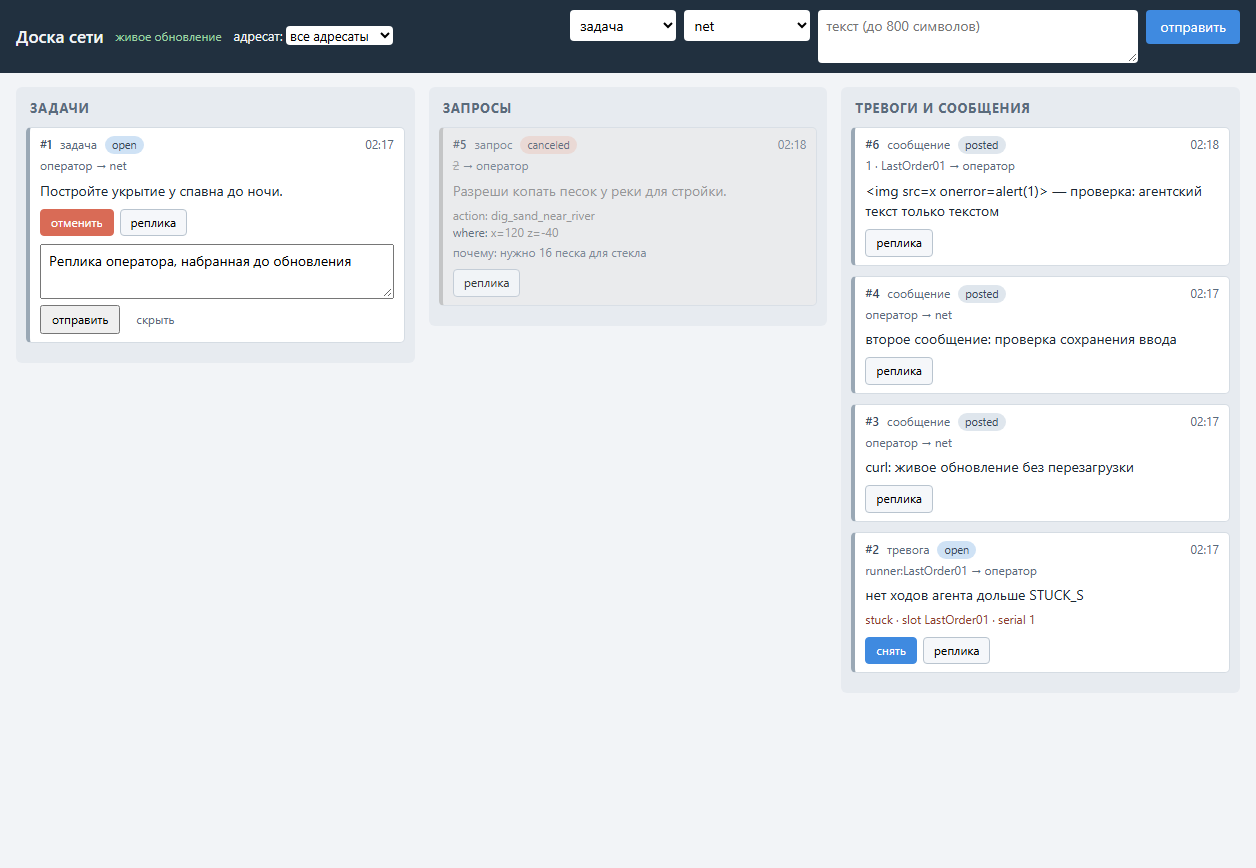
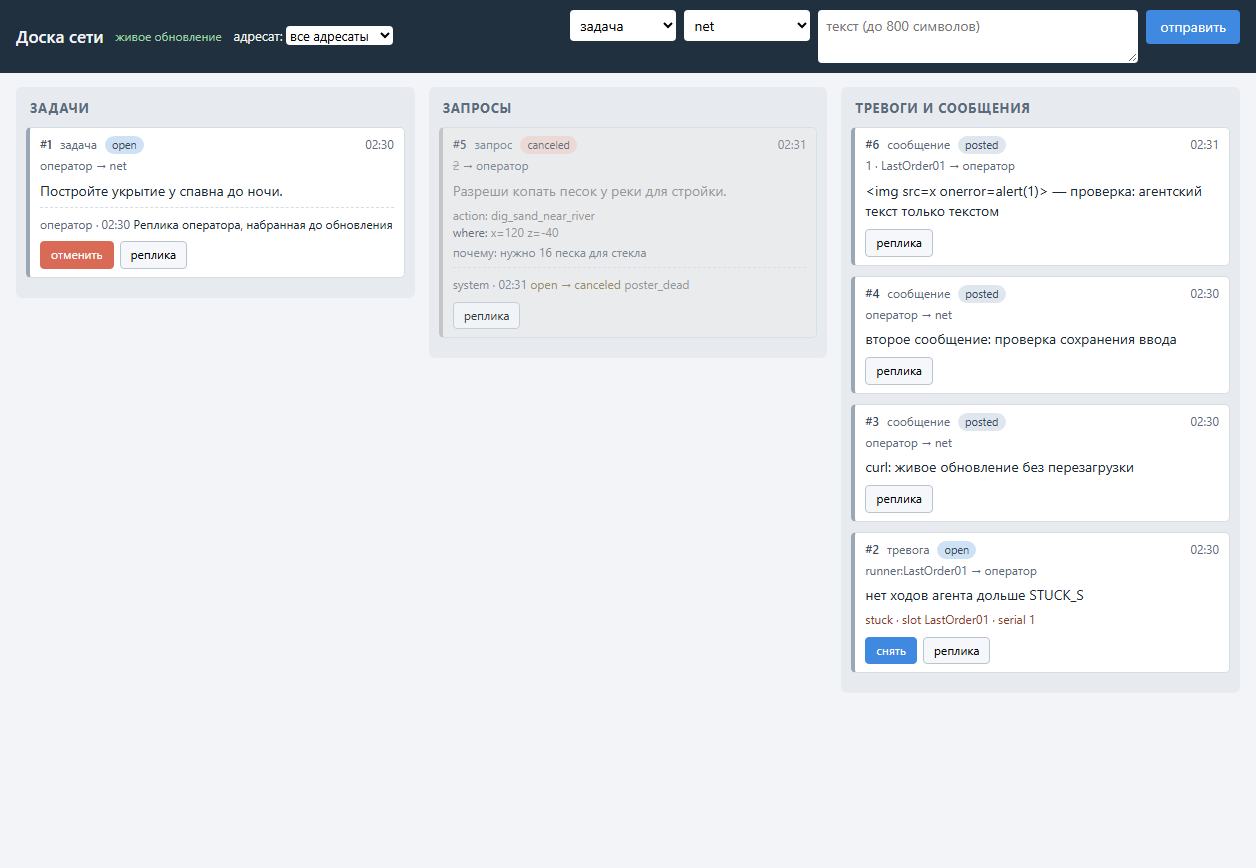
T-049: R2-1 — close forms on success, drop stale ones, show threads
- doAction reports success: both submit handlers remove the form after a
  sent action, a refusal keeps the typed text in place.
- Each action button carries data-opens; a carried form survives a re-render
  only while the fresh card still offers its move (a status change that
  removed the button drops the form with the old card).
- The list API carries no threads (TASKBOARD.md 9): the page loads the thread
  of every visible entry in one parallel burst, so replies — needs_input
  questions, deny reasons, the operator's own — are actually readable;
  _board_actor accepts the page's Basic pair like every operator route.

Agent: zcode

diff --git a/runtime/hive/static/board.js b/runtime/hive/static/board.js
@@ -79,8 +79,10 @@ async function doAction(path, body) {
   try {
     await api(path, "POST", body);
     await refresh(); // the SSE event will call it again; better twice than late
+    return true;
   } catch (error) {
     toast(String(error.message || error));
+    return false; // the caller keeps the form with its typed text
   }
 }
 
@@ -104,10 +106,28 @@ async function refresh() {
     ]);
     state.entries = entries;
     state.alive = alive;
+    await loadThreads(visibleEntries());
     render();
   } catch (error) {
     toast(String(error.message || error));
   }
+}
+
+// TASKBOARD.md section 9: the listing carries no threads — only the one-entry call
+// does. The page fetches the thread of every visible entry in parallel (loopback,
+// one debounced burst per update); a `with_thread` param on the list would spare
+// the round-trips, but runtime/hive/board.py is outside this task's scope.
+async function loadThreads(entries) {
+  const threads = await Promise.all(entries.map((entry) =>
+    api("/board/entries/" + entry.id, "GET")
+      .then((full) => full.thread || [])
+      .catch(() => [])
+  ));
+  entries.forEach((entry, i) => { entry.thread = threads[i]; });
+}
+
+function visibleEntries() {
+  return state.entries.filter((entry) => !state.filter || entry.to === state.filter);
 }
 
 let refreshTimer = null;
@@ -158,9 +178,9 @@ function render() {
   }
   buildFilter();
   buildAddressees();
+  const visible = visibleEntries();
   const columns = { task: [], request: [], info: [] };
-  for (const entry of state.entries) {
-    if (state.filter && entry.to !== state.filter) continue;
+  for (const entry of visible) {
     if (entry.kind === "task") columns.task.push(entry);
     else if (entry.kind === "request") columns.request.push(entry);
     else columns.info.push(entry);
@@ -220,9 +240,10 @@ function entryCard(entry, openForms) {
     card.append(threadBox(entry.thread));
   }
   // the carried form (an update re-rendered the cards around the operator's typing)
-  const carried = openForms ? openForms.get(entry.id) : null;
-  card.append(actionsRow(entry, carried));
-  if (carried) card.append(carried);
+  // rides along only while its action still exists on the card (review R2-1)
+  const actions = actionsRow(entry, openForms ? openForms.get(entry.id) : null);
+  card.append(actions.row);
+  if (actions.form) card.append(actions.form);
   return card;
 }
 
@@ -267,7 +288,16 @@ function threadBox(thread) {
 
 function actionsRow(entry, carriedForm) {
   const row = el("div", "actions");
-  let openForm = carriedForm || null; // a form carried over a re-render stays open
+
+  const button = (label, cls, opens) => {
+    const node = el("button", cls, label);
+    node.type = "button";
+    node.dataset.opens = opens; // a carried form survives while its action does (R2-1)
+    row.append(node);
+    return node;
+  };
+
+  let openForm = null;
 
   const toggle = (form) => {
     if (openForm) openForm.remove();
@@ -276,19 +306,16 @@ function actionsRow(entry, carriedForm) {
     row.after(form);
   };
 
-  const button = (label, cls, buildForm) => {
-    const node = el("button", cls, label);
-    node.type = "button";
+  const wire = (node, buildForm) =>
     node.addEventListener("click", () => toggle(buildForm()));
-    row.append(node);
-  };
 
   if (entry.kind === "task") {
     if (["open", "taken", "needs_input"].includes(entry.status)) {
-      button("отменить", "danger", () => transitionForm(entry, "canceled", "отменить задачу"));
+      wire(button("отменить", "danger", "canceled"),
+        () => transitionForm(entry, "canceled", "отменить задачу"));
     }
     if (entry.status === "needs_input") {
-      button("ответить", "primary",
+      wire(button("ответить", "primary", "taken"),
         () => transitionForm(entry, "taken", "ответить и вернуть во взятые", { needText: true }));
     }
   }
@@ -296,17 +323,20 @@ function actionsRow(entry, carriedForm) {
     const allowed = (entry.request && entry.request.allowed)
       || ["approve", "deny", "respond", "edit"];
     if (allowed.includes("approve")) {
-      button("одобрить", "primary", () => transitionForm(entry, "approved", "одобрить"));
+      wire(button("одобрить", "primary", "approved"),
+        () => transitionForm(entry, "approved", "одобрить"));
     }
     if (allowed.includes("edit")) {
-      button("правка и одобрить", "primary",
+      wire(button("правка и одобрить", "primary", "approved"),
         () => transitionForm(entry, "approved", "одобрить с правкой", { editArgs: true }));
     }
     if (allowed.includes("deny")) {
-      button("отклонить", "danger", () => transitionForm(entry, "denied", "отклонить", { needText: true }));
+      wire(button("отклонить", "danger", "denied"),
+        () => transitionForm(entry, "denied", "отклонить", { needText: true }));
     }
     if (allowed.includes("respond")) {
-      button("ответить", null, () => transitionForm(entry, "answered", "ответить", { needText: true }));
+      wire(button("ответить", null, "answered"),
+        () => transitionForm(entry, "answered", "ответить", { needText: true }));
     }
   }
   if (entry.kind === "alarm" && entry.status === "open") {
@@ -317,8 +347,13 @@ function actionsRow(entry, carriedForm) {
     });
     row.append(ack);
   }
-  button("реплика", null, () => replyForm(entry));
-  return row;
+  wire(button("реплика", null, "reply"), () => replyForm(entry));
+  // the carried form stays open on the fresh card only if the entry still offers
+  // its move: a status change may have removed the button that opened it (R2-1)
+  if (carriedForm && row.querySelector(`[data-opens="${carriedForm.dataset.opens}"]`)) {
+    openForm = carriedForm;
+  }
+  return { row, form: openForm };
 }
 
 // A transition form: optional or required text, optionally the corrected args
@@ -326,6 +361,7 @@ function actionsRow(entry, carriedForm) {
 function transitionForm(entry, toStatus, label, options) {
   const opts = options || {};
   const form = el("form", "inline-form");
+  form.dataset.opens = toStatus; // matched against the fresh card's buttons (R2-1)
   const inputs = { text: null, args: {} };
 
   if (opts.editArgs && entry.request) {
@@ -364,13 +400,16 @@ function transitionForm(entry, toStatus, label, options) {
       body.args = {};
       for (const key of Object.keys(inputs.args)) body.args[key] = inputs.args[key].value;
     }
-    await doAction("/board/entries/" + entry.id + "/transition", body);
+    if (await doAction("/board/entries/" + entry.id + "/transition", body)) {
+      form.remove(); // sent: closed; on a refusal the typed text stays (R2-1)
+    }
   });
   return form;
 }
 
 function replyForm(entry) {
   const form = el("form", "inline-form");
+  form.dataset.opens = "reply"; // the reply button lives on every card (R2-1)
   const area = document.createElement("textarea");
   area.maxLength = 400;
   area.required = true;
@@ -384,7 +423,9 @@ function replyForm(entry) {
   form.append(send, hide);
   form.addEventListener("submit", async (event) => {
     event.preventDefault();
-    await doAction("/board/entries/" + entry.id + "/reply", { text: area.value });
+    if (await doAction("/board/entries/" + entry.id + "/reply", { text: area.value })) {
+      form.remove(); // sent: closed; on a refusal the typed text stays (R2-1)
+    }
   });
   return form;
 }

diff --git a/tests/test_hive_board_page.py b/tests/test_hive_board_page.py
@@ -104,6 +104,11 @@ def test_basic_password_opens_the_operator_api(tmp_path: Path) -> None:
     )
     assert posted.status_code == 200, posted.text
     assert posted.json()["from"] == "operator"  # the server stamps it, not the browser
+    # the page's thread loads: the one-entry route under the same Basic pair (R2-1)
+    one = stack.client.get(f"/board/entries/{posted.json()['id']}",
+                           headers=basic("operator", KEY_OP))
+    assert one.status_code == 200, one.text
+    assert one.json()["thread"] == []
     listed = stack.client.get("/board/entries", headers=basic("operator", KEY_OP))
     assert listed.status_code == 200
     # an explicit but wrong X-Operator-Key is a refusal even over a valid Basic pair:

diff --git a/runtime/hive/app.py b/runtime/hive/app.py
@@ -617,9 +617,12 @@ def create_app(
         return str(max(b.serial for b in live))
 
     def _board_actor(request: Request) -> str:
-        """Operator or agent identity for the routes both may read."""
+        """Operator or agent identity for the routes both may read. The page's
+        browser identifies with its Basic pair the same way as everywhere else."""
         if request.headers.get("x-operator-key", "").strip():
             _require_operator(request)
+            return OPERATOR
+        if _basic_password_ok(request):
             return OPERATOR
         return _agent_actor(request)
 
